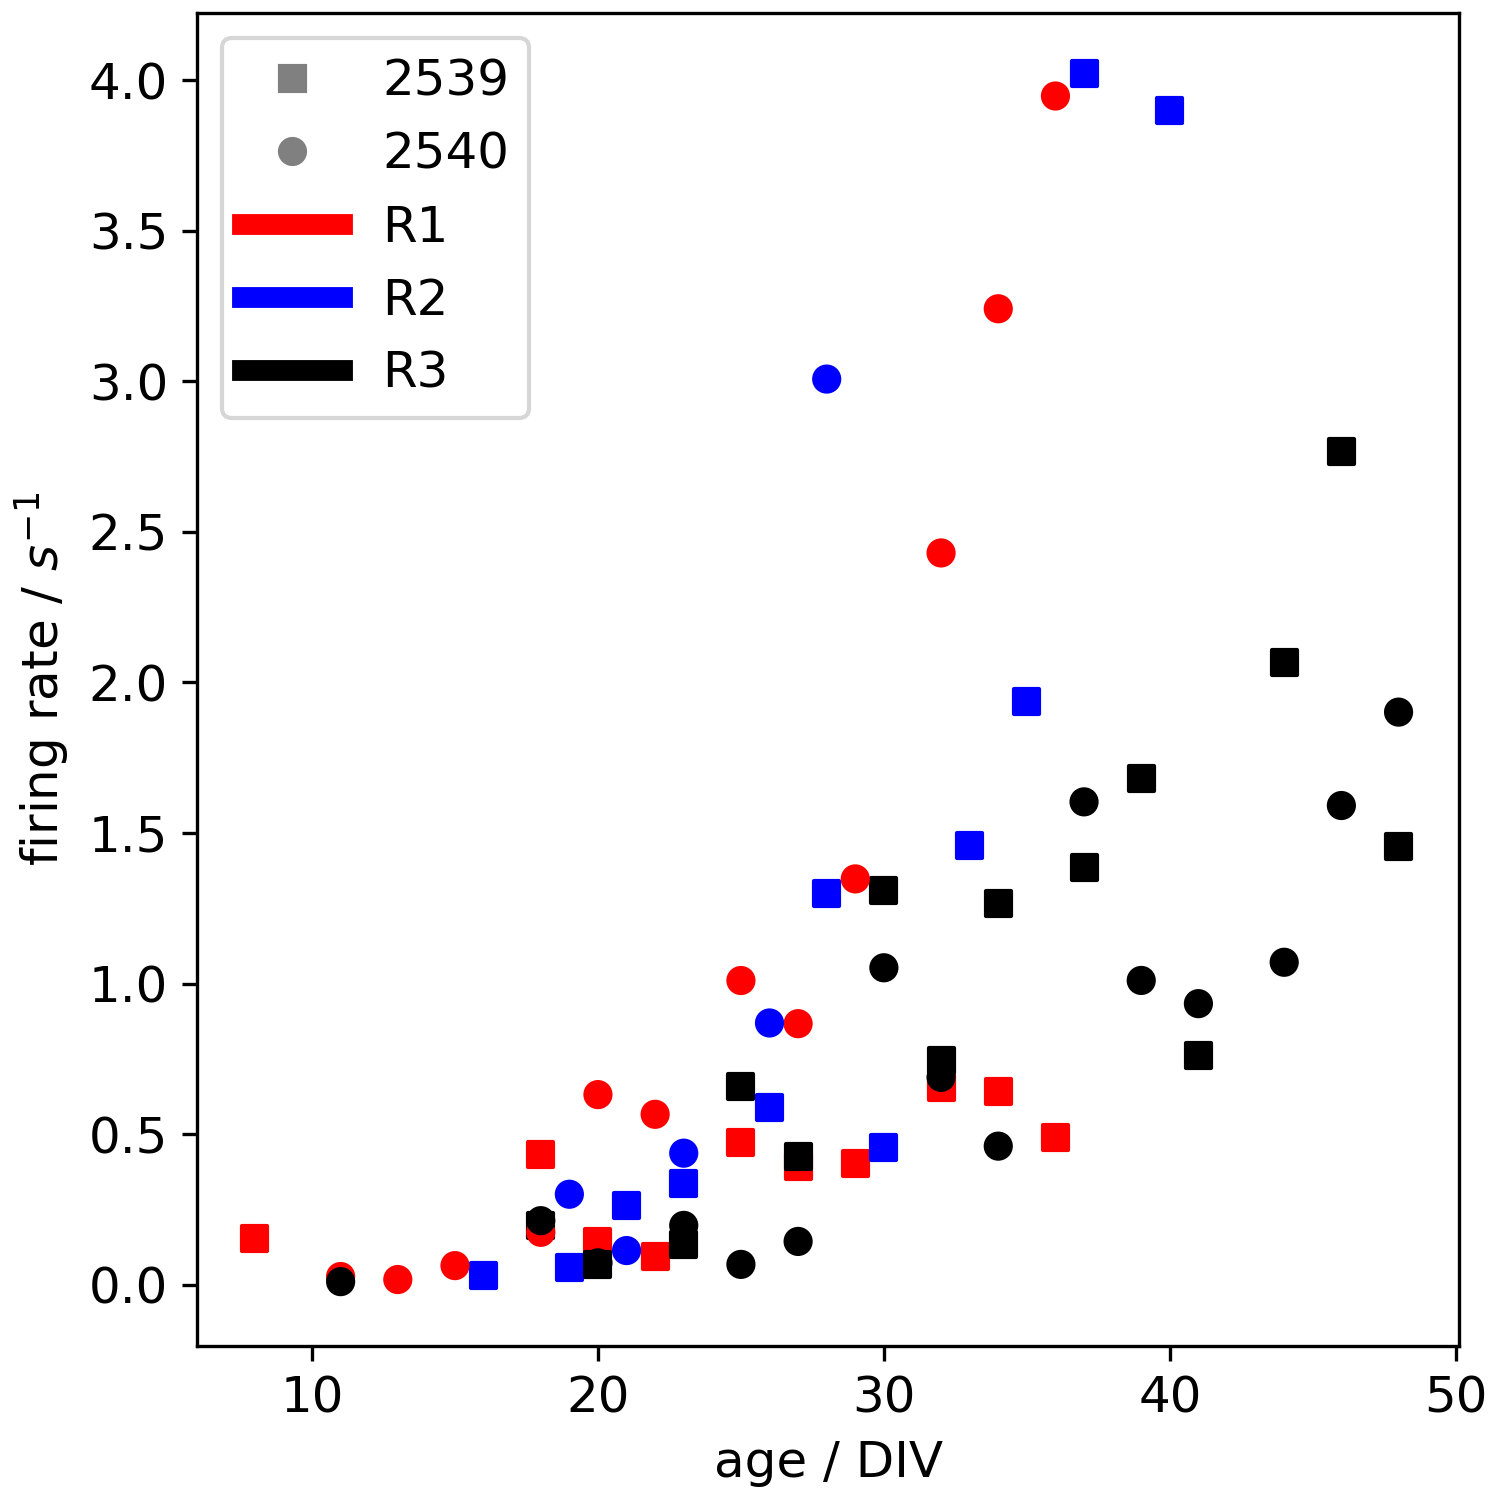
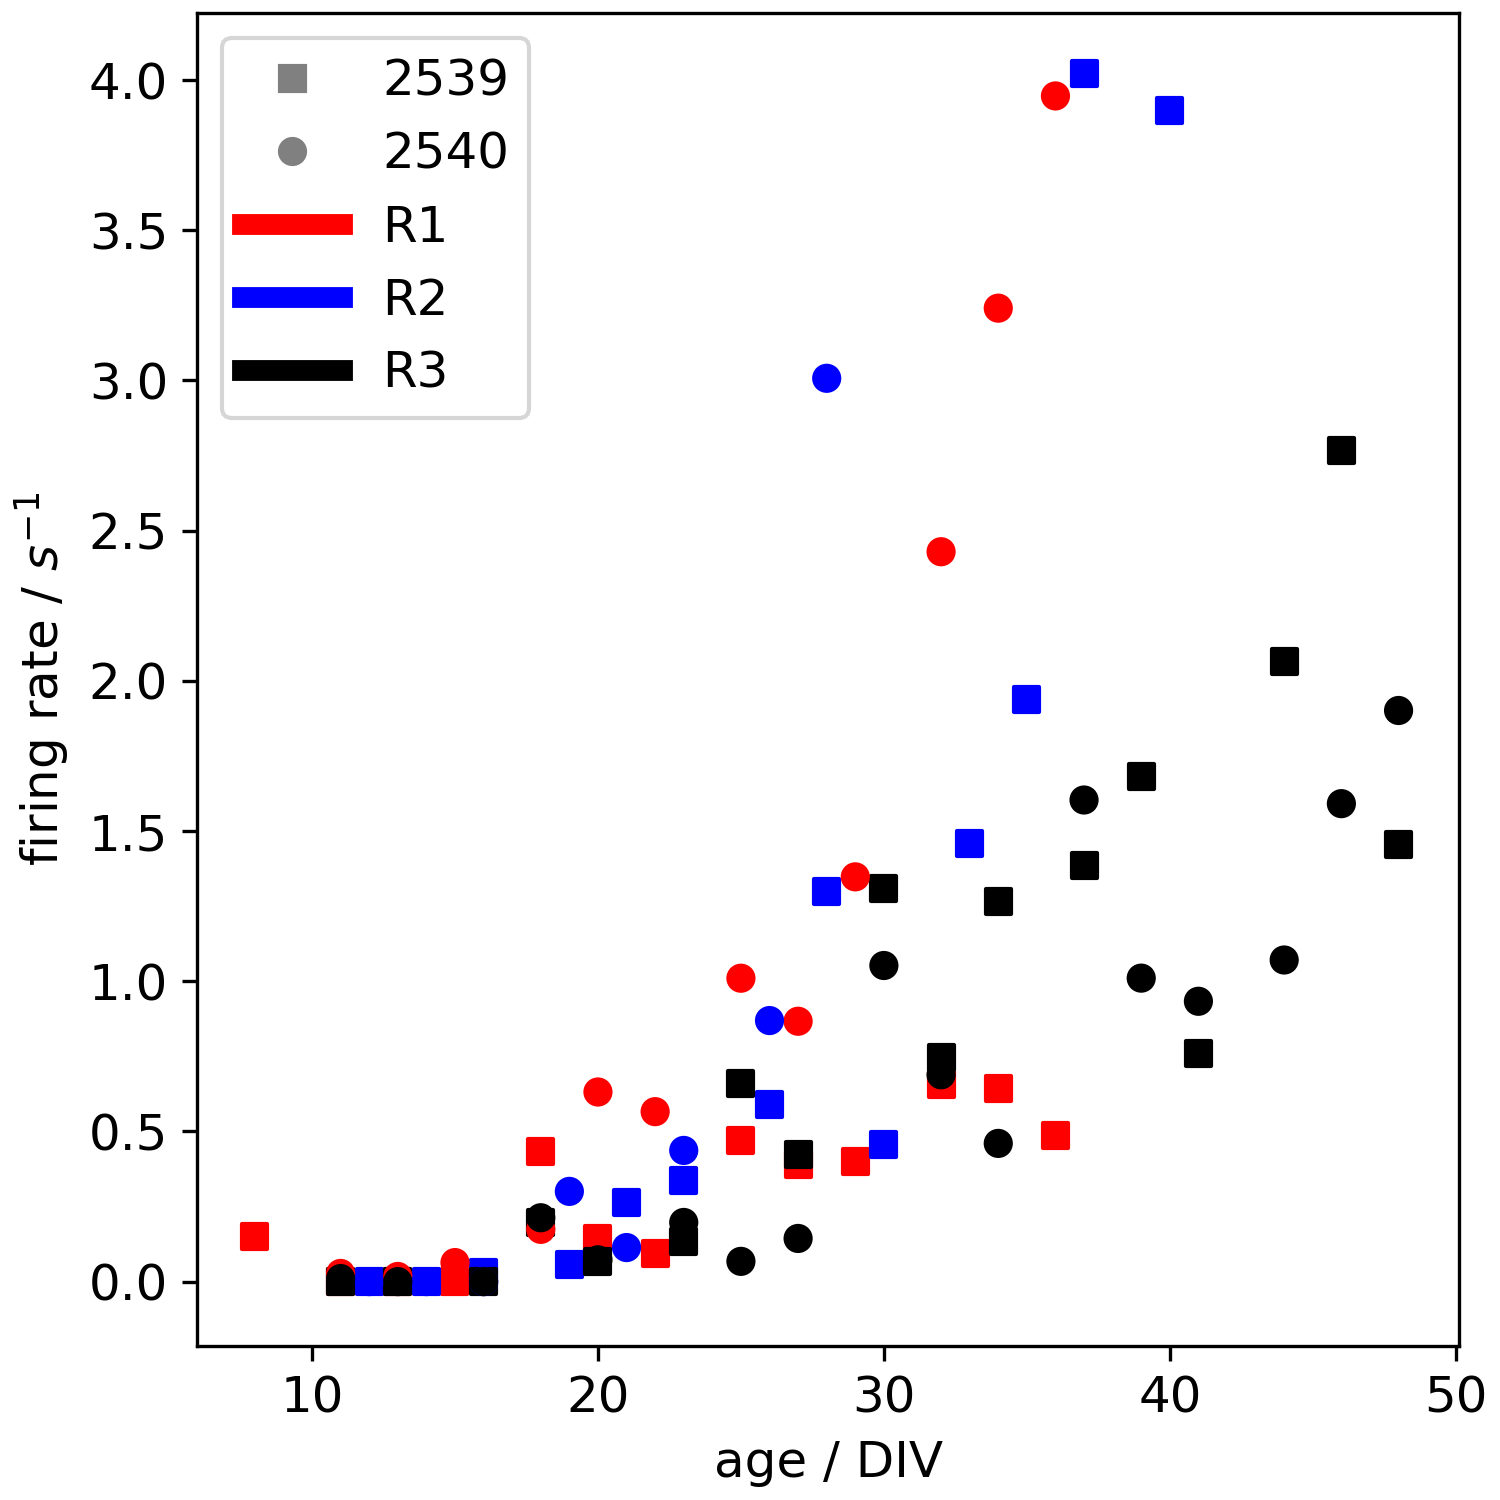
Do not skip empty recordings in firing rate plot

diff --git a/scripts/compute_summary_statistics.py b/scripts/compute_summary_statistics.py
@@ -43,7 +43,7 @@ for file in data_files:
     if spikes.any():
         firing_rate = elephant.statistics.mean_firing_rate(spikes)
     else:
-        firing_rate = None
+        firing_rate = 0
     fr_l[mea].append(firing_rate)
 
     # firing rate per channel
